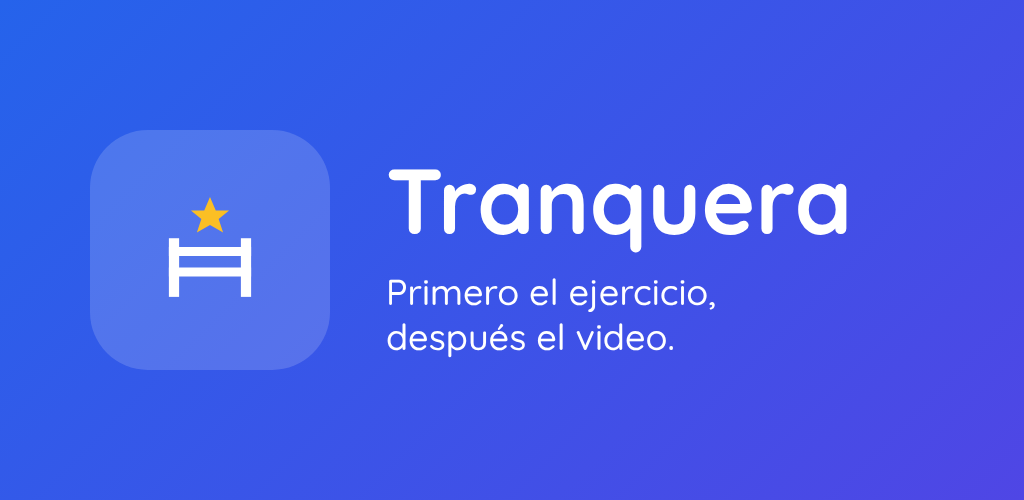
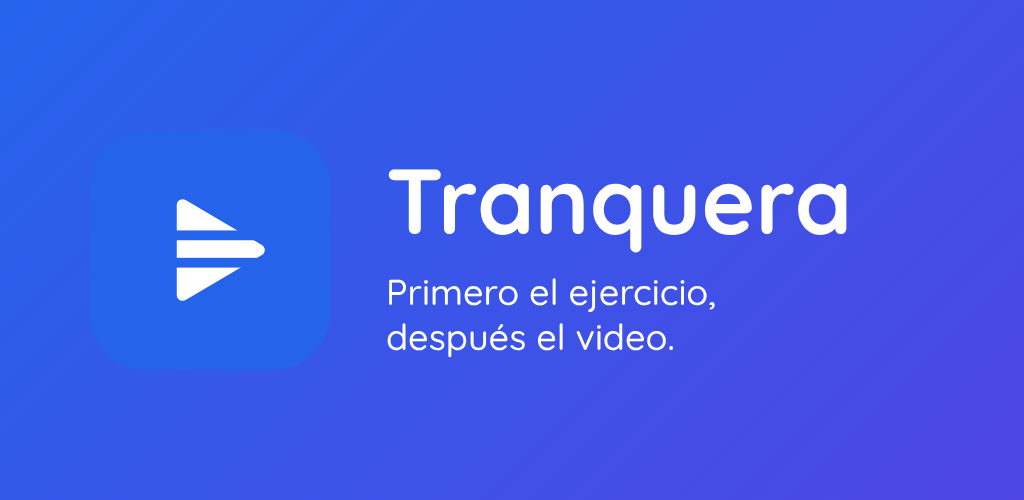
Ícono nuevo: play con tranquera
Claude-Session: https://claude.ai/code/session_01LRizSqyPesr8BN1A1zE1yx

Changed region(s): [[0.0625, 0.24, 0.3438, 0.75]]

diff --git a/docs/cambios.md b/docs/cambios.md
@@ -10,6 +10,10 @@ https://github.com/AbelG88/tolltube/releases
 - [x] Sumas y restas con imágenes (emojis) acompañando los números (release 2)
 - [x] Más tipos de ejercicio (animales, objetos) y elegirlos desde el menú (release 2)
 
+## Release 25 — Ícono nuevo (v3.9.1)
+
+- Ícono: botón de play cruzado por dos travesaños de tranquera, blanco sobre azul. Actualizados también el ícono 512 y el gráfico de funciones de Play.
+
 ## Release 24 — Ficha de Google Play
 
 - `docs/play-ficha.md`: nombre, descripciones, categoría, clasificación, público objetivo y orden de carga en Play Console.

diff --git a/README.md b/README.md
@@ -2,7 +2,7 @@
 
 App Android de control parental con un giro educativo: cuando el niño usa una app de las que cuidamos (YouTube, TikTok, juegos…), cada cierto tiempo aparece un **ejercicio** que tiene que resolver para seguir. No bloquea: convierte el tiempo de pantalla en práctica.
 
-Versión actual: **3.9.0-MVP** (versionCode 32) · Paquete: `com.tranquera.app` · Licencia: ver [LICENSE](LICENSE).
+Versión actual: **3.9.1-MVP** (versionCode 33) · Paquete: `com.tranquera.app` · Licencia: ver [LICENSE](LICENSE).
 
 ## Qué hace
 
